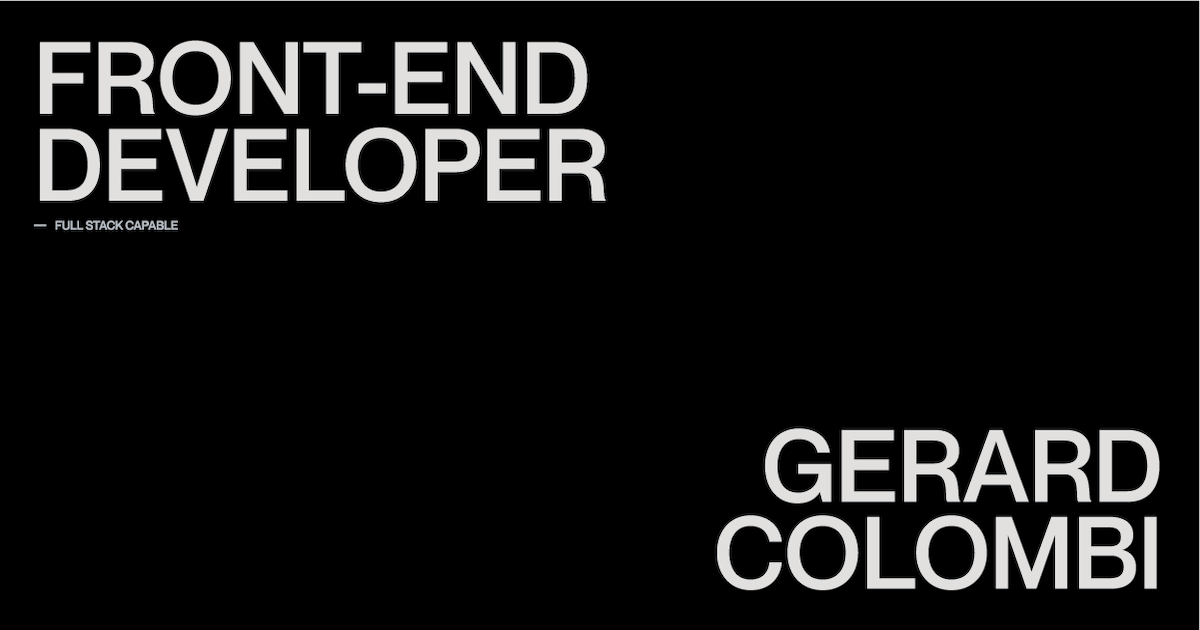
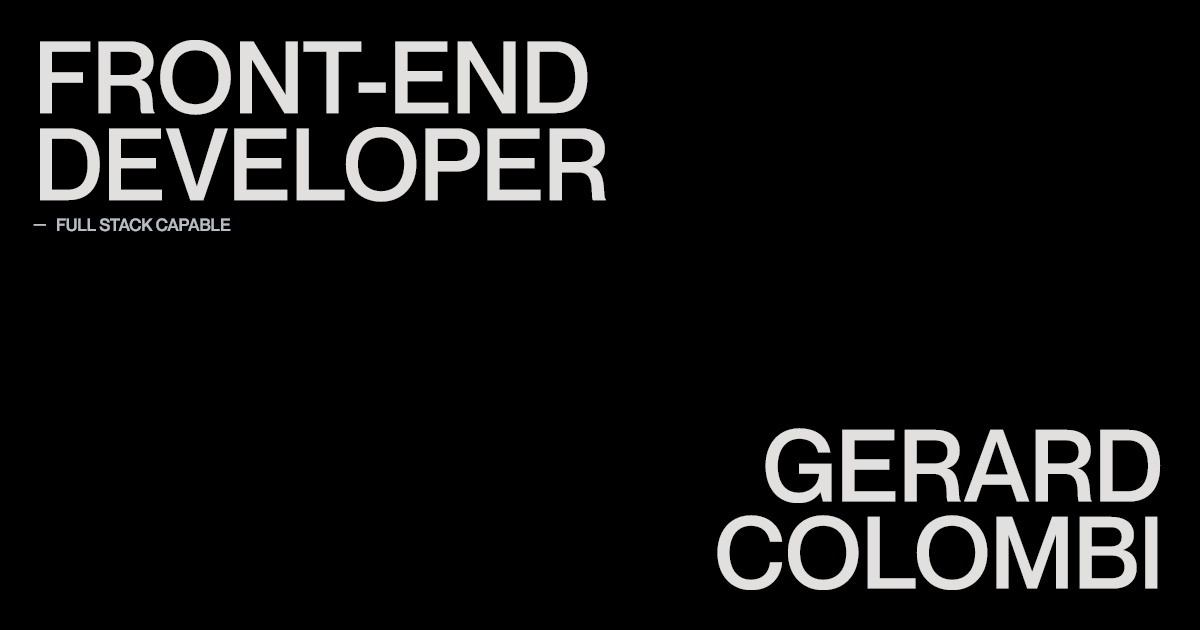
update og-image

diff --git a/styles/modules/HomeHeader.module.scss b/styles/modules/HomeHeader.module.scss
@@ -16,6 +16,7 @@
         grid-column: 1 / -1;
 
         &--subfield {
+            --h4: 16px;
 	        --body-heading-color: var(--body-subfield-color);
 
             position: relative;
@@ -72,6 +73,10 @@
 
         &__title {
             grid-column: 1 / 5;
+
+            &--subfield {
+            	--h4: 20px;
+            }
         }
 
         &__media {
@@ -122,6 +127,12 @@
     @include mediaq('>LG') {
         --section-padding-t: calc(var(--spacing-responsive) - var(--navigation-height));
         align-items: center;
+
+        &__title {
+            &--subfield {
+            	--h4: 22px;
+            }
+        }
     }
 
     @include mediaq('>XLG') {

diff --git a/components/HomeHeader.tsx b/components/HomeHeader.tsx
@@ -43,7 +43,7 @@ export default function HomeHeader() {
                                 y="100%"
                             >
                                 <div className={styles['c-homeHeader__title--subfield']}>
-                                    <h2 className="h6 u-margin--none u-uppercase">Full stack capable</h2>
+                                    <h2 className="h4 u-margin--none u-uppercase">Full stack capable</h2>
                                 </div>
                             </TranslateInOut>
                         </div>

diff --git a/components/MetaData.tsx b/components/MetaData.tsx
@@ -2,7 +2,7 @@ import Head from 'next/head';
 import useWindowLocation from '@/hooks/useWindowLocation';
 
 export default function MetaData({
-    title = 'Next.js',
+    title = 'Gerard Colombi',
     description = 'The React Framework for the Web.',
     image = `${process.env.NEXT_PUBLIC_BASE_URL}/static/og-image.png`,
     type = 'website'
